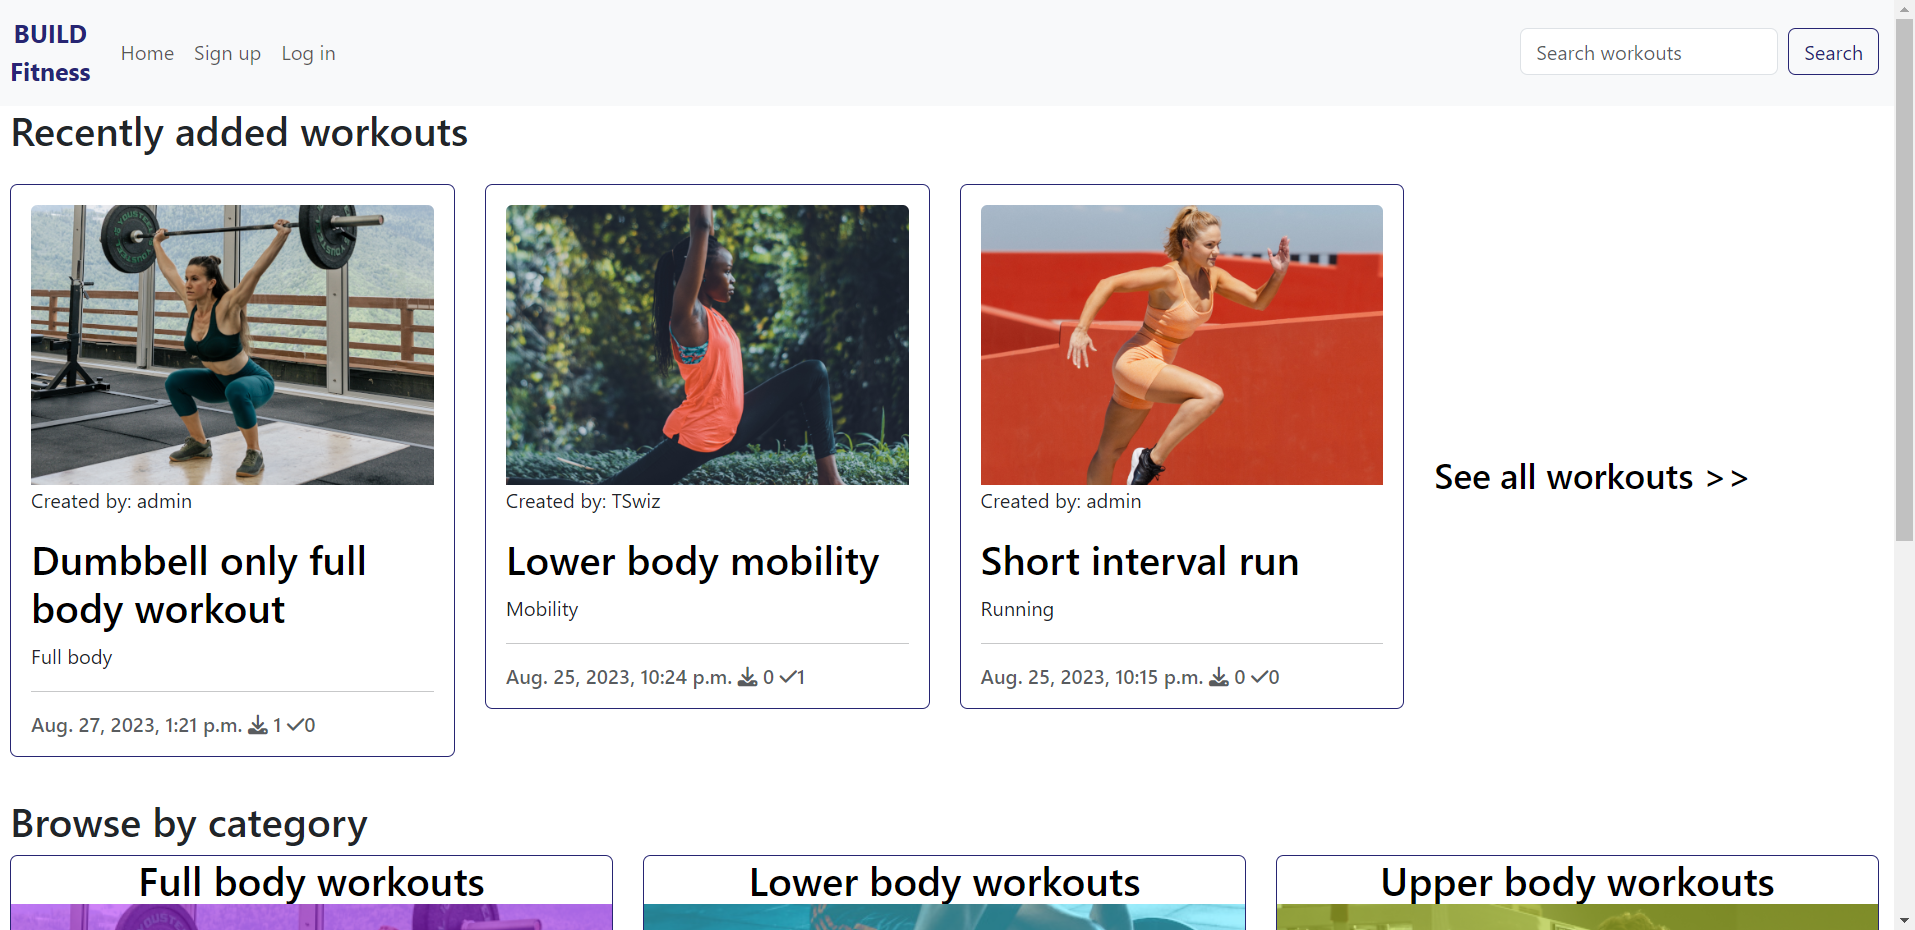
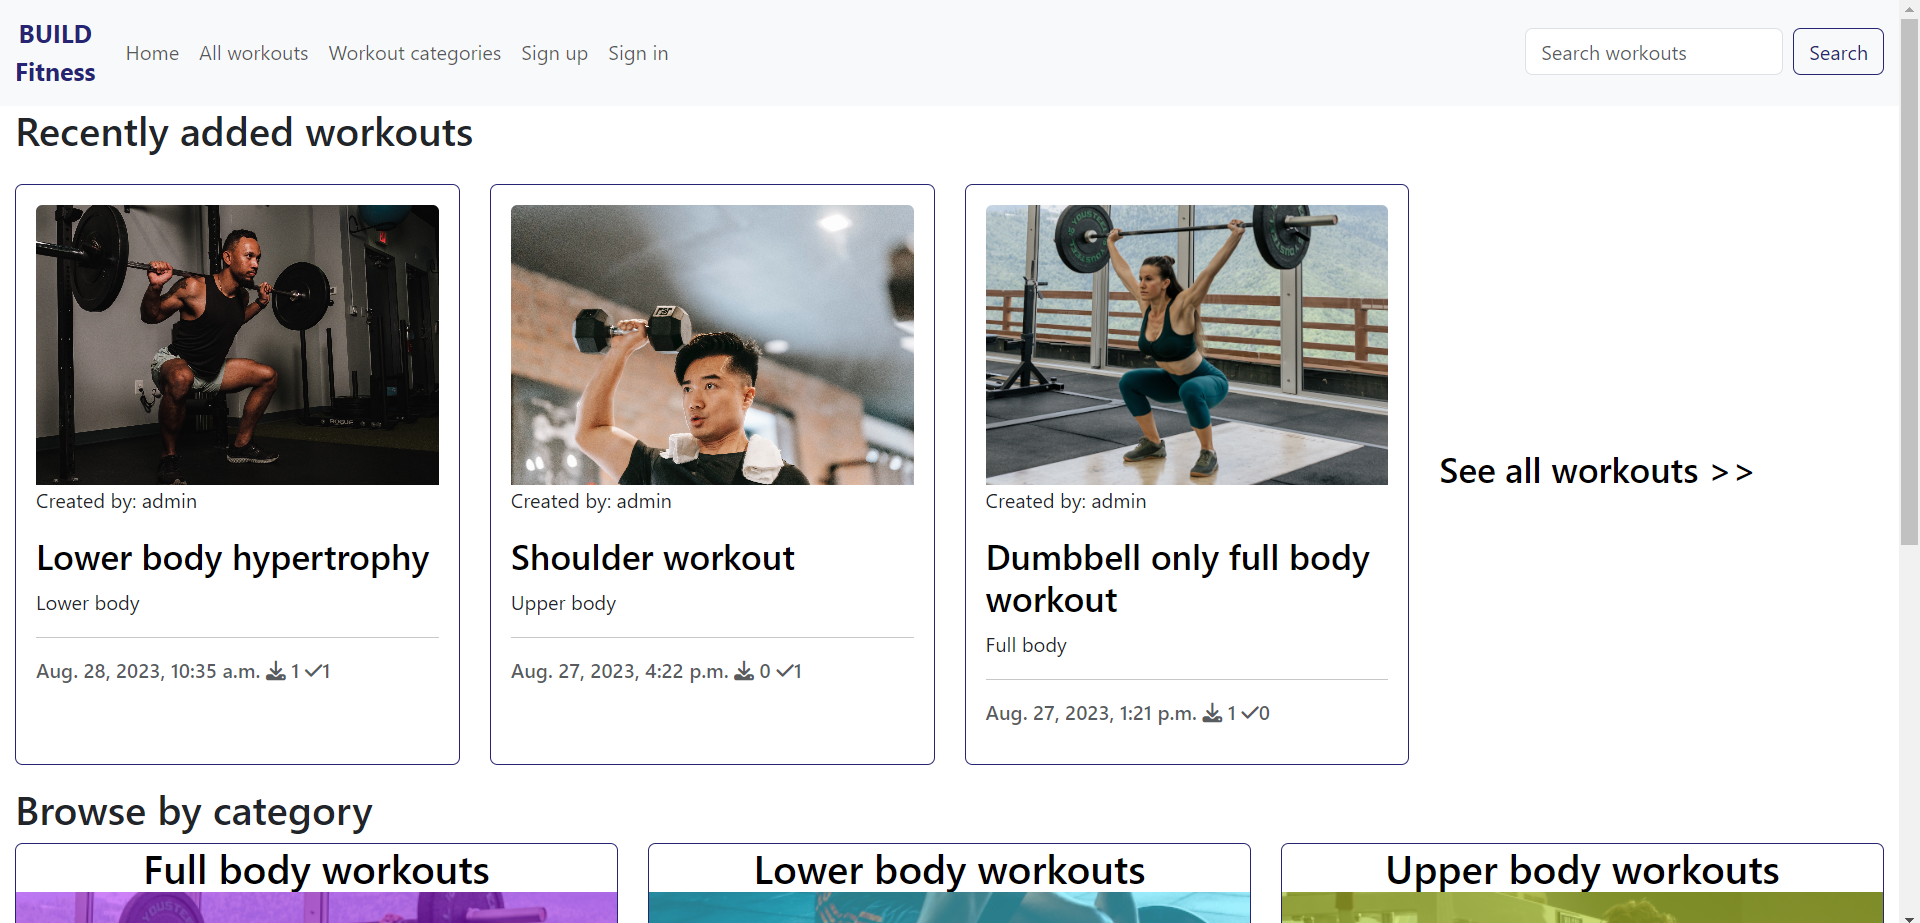
Add test details and screenshots to user story tests

diff --git a/README.md b/README.md
@@ -10,14 +10,20 @@ Final website: [https://build-fitness-66f794a76bbb.herokuapp.com/](https://build
 ## Table of contents
 
 - [Design and planning](#design-and-planning)
+    - [Site owner goals](#site-owner-goals)
     - [User stories](#user-stories)
     - [Flowcharts](#flowcharts)
     - [Models diagram](#models-diagram)
     - [Wireframes](#wireframes)
 - [Features](#features)
+    - [Responsive layouts](#responsive-layouts)
+    - [Favicon and title](#favicon-and-title)
+    - [Navigation](#navigation)
+    - [Create, edit and delete workouts](#create-edit-and-delete-workouts)
+    - [Custom 403 and 404 pages](#custom-403-and-404-pages)
 - [Technology](#technology)
     - [Languages used](#languages-used)
-    - [Frameworks and libraries used](#frameworks-and-libraries-used)
+    - [Frameworks, libraries and programs used](#frameworks-libraries-and-programs-used)
 - [Testing](#testing)
     - [Testing user stories](#testing-user-stories)
     - [Automated testing](#automated-testing)
@@ -26,21 +32,35 @@ Final website: [https://build-fitness-66f794a76bbb.herokuapp.com/](https://build
 
 ## Design and planning
 
+### Site owner goals
+
+As the site owner, I want to provide a resource for users to find new workouts to try, and to have the option to save workouts, mark them as complete or leave comments. The website should be easy to navigate, with multiple options for users to find what they are looking for. It should be easy to register for an account, which will gain the user additional functionality to enhance their experience.
+Admin users should be able to create, edit and delete workouts without difficulty, but non-admin users should not be able to access this functionality.
+The site should be responsive and easy to use on any common device.
+The end goal is to gain as much user traffic as possible, and have many people regularly interacting with the site as repeat visitors.
+
 ### User stories
 
+#### As an anonymous user...
 1. View workouts: As a user I can view a selection of workouts so that I can choose one to complete.
 2. Filter workouts: As a user I can filter workouts so that I can easily find one that I want to do.
-3. Save workouts: As a user I can mark workouts I like so that I can come back to them later.
-4. Complete workouts: As a user I can mark off workouts I have completed so that I can see a record of what I have done.
-5. Comment on workouts: As a user I can comment on workouts so that I can leave my feedback.
-6. Workout categories: As a user I can browse different categories of workouts so that I can easily find the type of workout I want to do.
-7. Create account: As a user I can create an account so that I can come back to saved workouts and comment on workouts.
-8. View saves: As an admin I can see how many people have saved a workout so that I can see what is popular.
-9. View comments: As an admin I can see comments on workouts so that I can understand user feedback.
-10. Approve comments: As an admin I can approve comments so that I can make sure they are appropriate.
-11. Create workouts: As an admin I can create new workouts so that there is regular new content for users.
-12. Update workouts: As an admin I can update existing workouts so that they can be changed based on user feedback.
-13. Delete workouts: As an admin I can delete workouts so that unpopular workouts can be removed.
+3. Workout categories: As a user I can browse different categories of workouts so that I can easily find the type of workout I want to do.
+4. Create account: As a user I can create an account so that I can come back to saved workouts and comment on workouts (become an authenticated user).
+5. View saves: As a user I can see how many people have saved a workout so that I can see what is popular.
+6. View comments: As user I can see comments on workouts so that I can see what other people think.
+
+#### As an authenitacted user...
+1. Save workouts: As an authenticated user I can mark workouts I like so that I can come back to them later.
+2. Complete workouts: As a user I can mark off workouts I have completed so that I can see a record of what I have done.
+3. Comment on workouts: As a user I can comment on workouts and see those left by others so that I can leave my feedback and interact with other users.
+
+#### As an admin user...
+1. View saves: As an admin I can see how many people have saved a workout so that I can see what is popular.
+2. View comments: As an admin I can see comments on workouts so that I can understand user feedback.
+3. Approve comments: As an admin I can approve comments so that I can make sure they are appropriate.
+4. Create workouts: As an admin I can create new workouts so that there is regular new content for users.
+5. Update workouts: As an admin I can update existing workouts so that they can be changed based on user feedback.
+6. Delete workouts: As an admin I can delete workouts so that unpopular workouts can be removed.
 
 User stories were added and tracked using [GitHub projects](https://github.com/users/mariacjones1/projects/2/views/1).
 
@@ -132,6 +152,9 @@ Changes made from design to final project:
 Changes made from design to final project:
 - No wireframe created for deletion confirmation page.
 
+#### Responsiveness
+- No wireframes were made for additional devices as the primary method of ensuring responsiveness was to use Bootstrap classes before testing and updating as needed for smaller screens.
+
 ### Design choices
 
 - Colours:
@@ -175,6 +198,7 @@ Changes made from design to final project:
 - Sets and reps use integer fields with a minimum value of 1 and a maximum value of 10 (sets) and 30 (reps), to prevent users from entering negative, decimal or too-high numbers.
 - Users who select the 'Delete workout' button will be directed to a page asking them to confirm the deletion, giving them the option to cancel if they change their mind or selected the option by mistake.
 - After creating a new workout, users will be redirected to the homepage, where they should see their new workout as the first card under 'Recently added workouts'. After editing a workout, users will be redirected back to that workout page where they can see the changes they have made. After deleting a workout, users will be redirected to the homepage.
+- Any admin can edit or delete any existing workout, as only a limited number of users will have the necessary permissions.
 
 ![Create workout](/documentation/screenshots/create_workout.png)
 ![Create workout - add exercise and submit](/documentation/screenshots/create_workout_2.png)
@@ -196,20 +220,32 @@ Changes made from design to final project:
 - JavaScript
 - Python
 
-### Frameworks and libraries used
+### Frameworks, libraries and programs used
 
-- Django 3.2.20
+- [Django 3.2.20](https://www.djangoproject.com/)
     - Web framework
-- Bootstrap 5.3.1
+- [Bootstrap 5.3.1](https://getbootstrap.com/)
     - To assist with styling and responsiveness
-- Font Awesome
-    - To provide icons
-- Git
+- [ElephantSQL](https://www.elephantsql.com/)
+    - For database storage
+- [Cloudinary](https://cloudinary.com/)
+    - For media storage
+- [Git](https://git-scm.com/)
     - Used for version control by pushing commits to GitHub
-- GitHub
+- [GitHub](https://github.com/)
     - For project storage
-- GIMP
+- [Font Awesome](https://fontawesome.com/)
+    - To provide icons
+- [favicon.io](https://favicon.io/)
+    - To generate the favicon
+- [GIMP](https://www.gimp.org/)
     - To edit images used
+- [Balsamiq](https://balsamiq.com/)
+    - For creating wireframes
+- [dbdiagram.io](https://dbdiagram.io/)
+    - For creating the models diagram
+- [Pexels](https://www.pexels.com/)
+    - For sourcing images
 
 ## Testing
 
@@ -217,42 +253,101 @@ Changes made from design to final project:
 
 1. View workouts: As a user I can view a selection of workouts so that I can choose one to complete.
     - Upon entering the site, users can see the three most recent workouts, as well as the options to see all workouts or to select a workout category by scrolling down.
+    - Test: enter the site
+    ![Homepage](/documentation/screenshots/homepage_not_signed_in.png)
 
 2. Filter workouts: As a user I can filter workouts so that I can easily find one that I want to do.
     - Users are able to use the search bar to search for a workout whose name contains the search term.
+    - Test: search term 'lower' entered into search bar
+    ![Search results](/documentation/screenshots/search_results_lower.png)
 
 3. Save workouts: As a user I can mark workouts I like so that I can come back to them later.
     - Users who have signed in are able to save workouts from the workout detail page. Saved workouts will be shown when the user goes to My workouts > Saved in the navbar.
+    - Test: Sign in as any user, select a workout and click 'Save for later'. This should change to 'Saved'. Navigate to My workouts > Saved and see the workout.
+    ![Save a workout](/documentation/screenshots/save_a_workout.png)
+    ![Saved workouts](/documentation/screenshots/saved_workouts.png)
 
 4. Complete workouts: As a user I can mark off workouts I have completed so that I can see a record of what I have done.
     - Users who have signed in are able to mark workouts as completed from the workout detail page. Completed workouts will be shown when the user goes to My workouts > Completed in the navbar.
+    - Test: Sign in as any user, select a workout and click 'Mark as completed'. This should change to 'Completed'. Navigate to My workouts > Completed and see the workout.
+    ![Complete a workout](/documentation/screenshots/complete_a_workout.png)
+    ![Completed workouts](/documentation/screenshots/completed_workouts.png)
 
 5. Comment on workouts: As a user I can comment on workouts so that I can leave my feedback.
     - Users who have signed in are able to comment on workout from the workout detail page. Comments must be approved by admin before they appear for other users to see. Users who have not signed in are still able to see other users' comments.
+    - Test: Sign in as any user, select a workout and submit a comment. Sign in as admin, go to the Django admin panel and approve the comment. Go back to the site, select the same workout, and see the comment.
+    ![Submit a comment](/documentation/screenshots/submit_comment.png)
+    ![Comment awaiting approval](/documentation/screenshots/comment_awaiting_approval.png)
+    ![Approve comment as admin](/documentation/screenshots/approve_comments.png)
+    ![Comment is visible](/documentation/screenshots/comment_visible.png)
 
 6. Workout categories: As a user I can browse different categories of workouts so that I can easily find the type of workout I want to do.
-    - Users are able to select a workout category from the homepage, which will show them all the workouts within that category.
+    - Users are able to select a workout category from the homepage or by selecting 'Workout categories' in the navbar and choosing a category from the rendered page, which will show them all the workouts within that category.
+    - Test 1: Select a workout category from the homepage and view workouts for that category.
+    - Test 2: Go to 'Workout categories' in the navbar, choose a category from the rendered page and view workouts for the chosen category.
+    ![Select category](/documentation/screenshots/browse_by_category.png)
+    ![Browse selected category](/documentation/screenshots/browse_selected_category.png)
 
 7. Create account: As a user I can create an account so that I can come back to saved workouts and comment on workouts.
     - Users can either sign up or sign in using the respective navbar links. Authenticated users have access to additional website features, such as saving, completing and commenting on workouts.
+    - Test: Sign up as a new user. Sign out and sign back in with new credentials. See the additional options in the navbar.
+    ![New user sign-up](/documentation/screenshots/sign_up_new.png)
+    ![New user sign-in](/documentation/screenshots/sign_in_new.png)
+    ![Autheticated user navbar](/documentation/screenshots/navbar_authenticated_user.png)
 
 8. View saves: As an admin I can see how many people have saved a workout so that I can see what is popular.
     - The number of saves and completes is visible on all workouts, both the cards on browsing pages and on the workout detail pages themselves. All users are able to see these numbers.
+    - Test: Sign in as any user and check the saved and completed icons next to any workout.
+    ![Saves and completes](/documentation/screenshots/saves_and_completes.png)
+
 
 9. View comments: As an admin I can see comments on workouts so that I can understand user feedback.
     - Comments are visible on all workout detail pages to all users.
+    - Test: Sign in as any user, select any workout and view the comments underneath the workout details.
+    ![View comments](/documentation/screenshots/comment_visible.png)
 
 10. Approve comments: As an admin I can approve comments so that I can make sure they are appropriate.
-    - Submitted comments are not approved by default; an admin user must approve them before they are visible to other users.
+    - Submitted comments are not approved by default; an admin user must approve them before they are visible to other users. In the Django admin panel, the most recent comments will appear first, and comments can be filtered by whether or not they have been approved.
+    - Test: Sign in as any user, navigate to any workout and submit a comment. A message will appear saying that the comment is pending approval. Sign in as an admin user and go to the Django admin panel, go to comments and see the comments which haven't been approved. Select and approve the comment, then navigate back to the workout on the main site and see the comment there.
+    ![Approve comments](/documentation/screenshots/approve_comments.png)
 
 11. Create workouts: As an admin I can create new workouts so that there is regular new content for users.
     - Users assigned to the admin group on Django admin are able to create new workouts by clicking 'New workout' in the navbar and filling in the new workout form. The workout slug is populated from the workout title. Users without admin permissions will not see the 'New workout' option in the navbar, and will be directed to a 403 page if they try to access it via the address bar.
+    - Test 1: Sign in as an admin user, click 'New workout' in the navbar and fill in the new workout details. Click 'Add exercises' if additional exercises are needed beyond the forms for the first three initially provided. Submit the workout, and be navigated back to the homepage where the new workout will appear as the first workout under 'Recently added workouts'.
+    ![Create new workout](/documentation/screenshots/create_workout_filled_in.png)
+    ![Add exercise](/documentation/screenshots/add_exercise.png)
+    ![Recently added workouts](/documentation/screenshots/new_workout_added.png)
+    - Test 2: Sign in as a non-admin user and see that there is no 'New workout' link in the navbar. Add '/new_workout/' to the end of the URL in the address bar and be directed to a 403 page.
+    ![Navbar for non-admin user](/documentation/screenshots/navbar_authenticated_user.png)
+    ![403 page](/documentation/screenshots/new_workout_403.png)
+    - Test 3: Sign out and add '/new_workout/' to the end of the URL in the address bar. Non-authenticated users are directed to the login page.
+    ![Sign in page](/documentation/screenshots/new_workout_sign_in.png)
 
 12. Update workouts: As an admin I can update existing workouts so that they can be changed based on user feedback.
     - Users assigned to the admin group on Django admin are able to edit workouts by clicking the 'Edit workout' button on the workout detail page and making changes in the workout form. The workout slug will be updated if the title is changed. Users are able to delete and add new exercises. Users without admin permissions will not see the 'Edit workout' button, and will be directed to a 403 page if they try to access it via the address bar.
+    - Test 1: Sign in as an admin user, navigate to any workout page and click the 'Edit workout' button. Make the required changes, including clicking 'Add exercises' if additional exercises are needed beyond what has already been added, and deleting any existing exercises. Submit the workout, and be navigated back to the workout page which will show the new changes (including an updated slug if the workout name was changed).
+    ![Workout page with edit button](/documentation/screenshots/workout_edit_button.png)
+    ![Edit workout name and image](/documentation/screenshots/edit_workout_name_image.png)
+    ![Add and delete exercises](/documentation/screenshots/edit_workout_add_delete.png)
+    ![View updated workout](/documentation/screenshots/updated_workout.png)
+    - Test 2: Sign in as a non-admin user and see that there is no 'Edit workout' button on the workout pages. Add '/edit_workout/' before the selected workout slug in the address bar and be directed to a 403 page.
+    ![workout page with no edit button](/documentation/screenshots/selected_workout.png)
+    ![403 page](/documentation/screenshots/edit_workout_403.png)
+    - Test 3: Sign out and add '/edit_workout/' before the selected workout slug in the address bar. Non-authenticated users are directed to the login page.
+    ![Sign in page](/documentation/screenshots/edit_workout_sign_in.png)
 
 13. Delete workouts: As an admin I can delete workouts so that unpopular workouts can be removed.
     - Users assigned to the admin group on Django admin are able to delete workouts by clicking the 'Delete workout' button on the workout detail page. They will be directed to a page asking them to confirm the deletion, at which point they can either cancel or confirm delete. Users without admin permissions will not see the 'Delete workout' button, and will be directed to a 403 page if they try to access it via the address bar.
+    - Test 1: Sign in as an admin user, navigate to any workout page and click the 'Delete workout' button. On the confirm delete page, click 'Delete' to confirm that the workout will be deleted. Search for the workout and see that it does not appear in the results. Enter the workout URL in the address bar and be redirected to a 404 page.
+    ![Workout page with delete button](/documentation/screenshots/workout_delete_button.png)
+    ![Confirm delete](/documentation/screenshots/confirm_delete.png)
+    ![Workout search no results](/documentation/screenshots/deleted_workout_no_results.png)
+    ![Enter URL 404](/documentation/screenshots/deleted_workout_404.png)
+    - Test 2: Sign in as a non-admin user and see that there is no 'Delete workout' button on the workout pages. Add '/delete_workout/' before the selected workout slug in the address bar and be directed to a 403 page.
+    ![workout page with no delete button](/documentation/screenshots/selected_workout.png)
+    ![403 page](/documentation/screenshots/delete_workout_403.png)
+    - Test 3: Sign out and add '/edit_workout/' before the selected workout slug in the address bar. Non-authenticated users are directed to the login page.
+    ![Sign in page](/documentation/screenshots/delete_workout_sign_in.png)
 
 ### Automated testing
 
